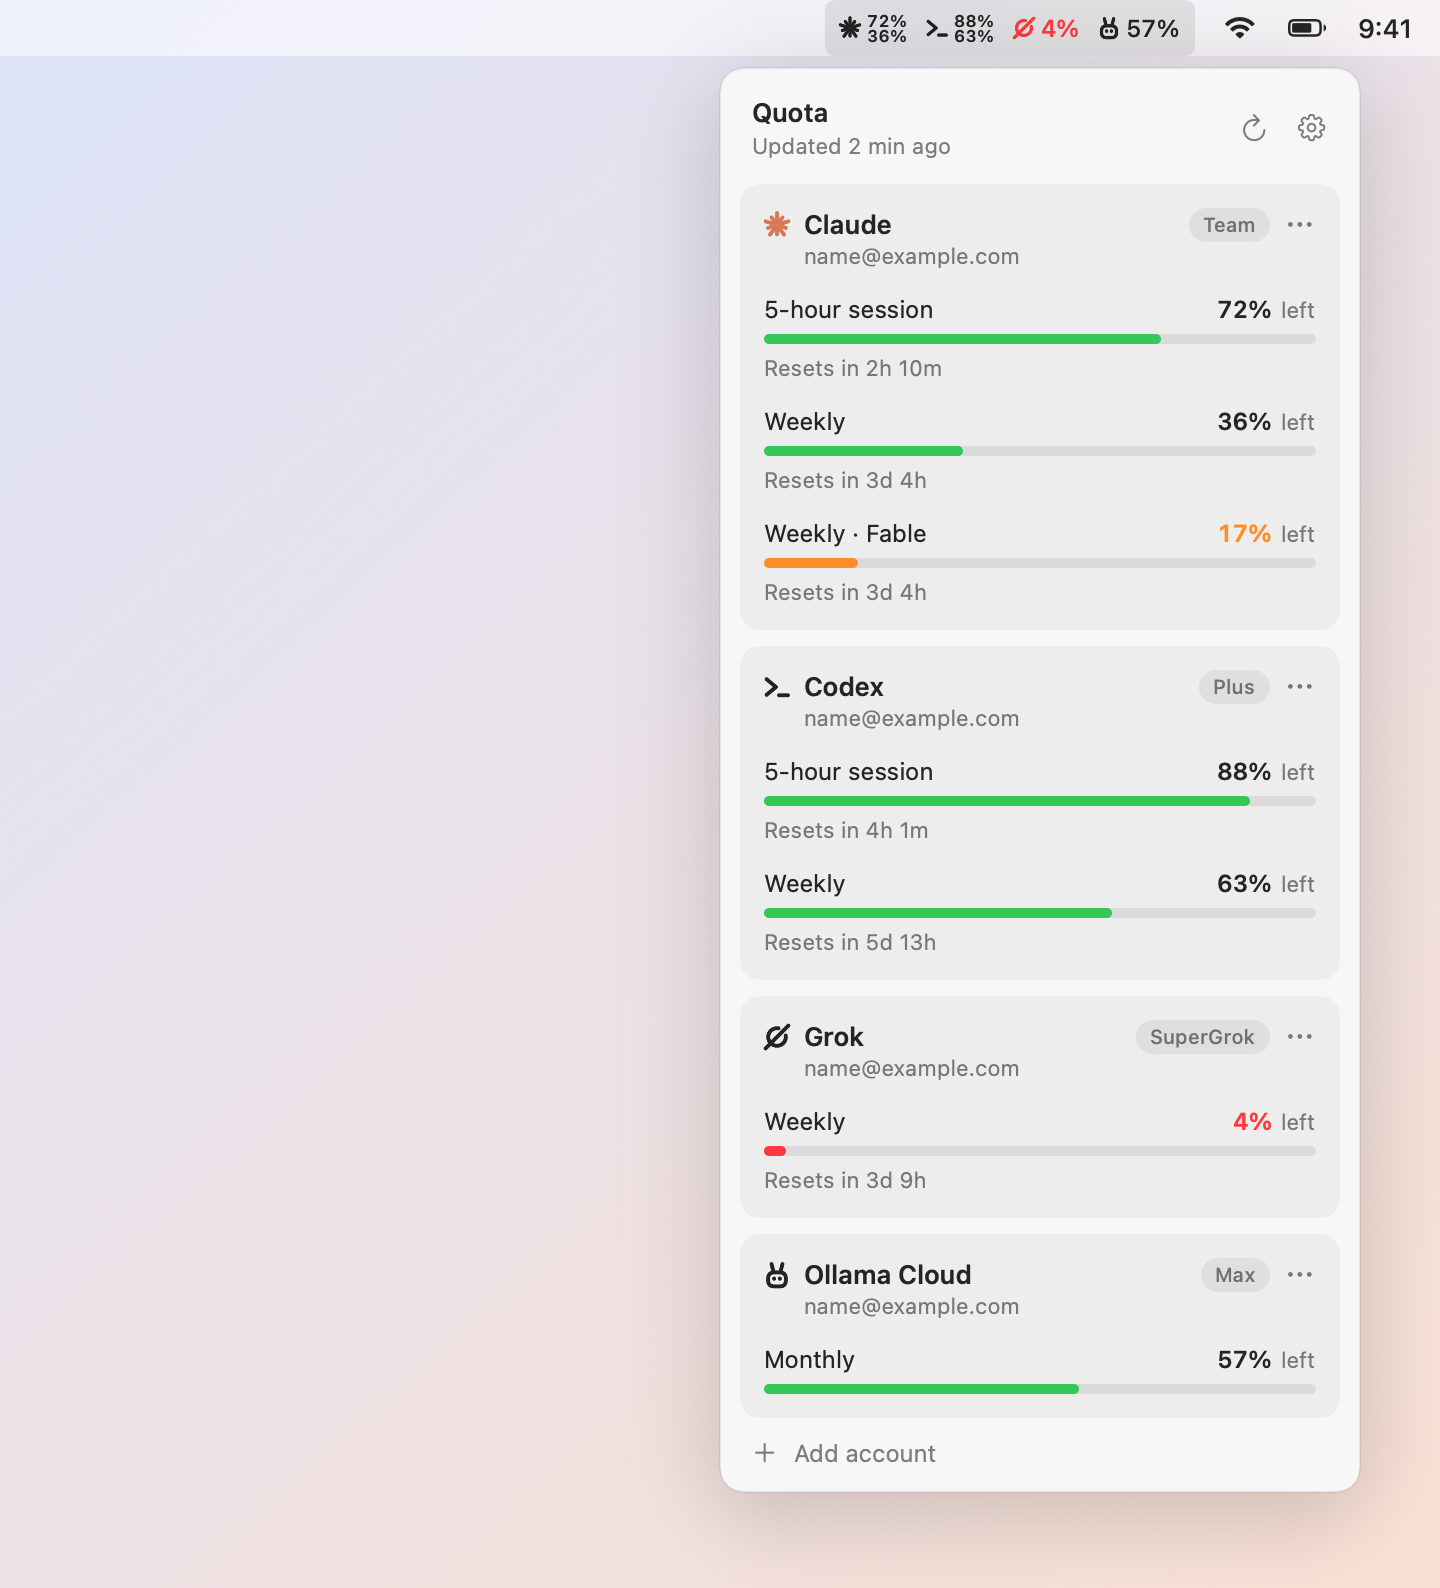
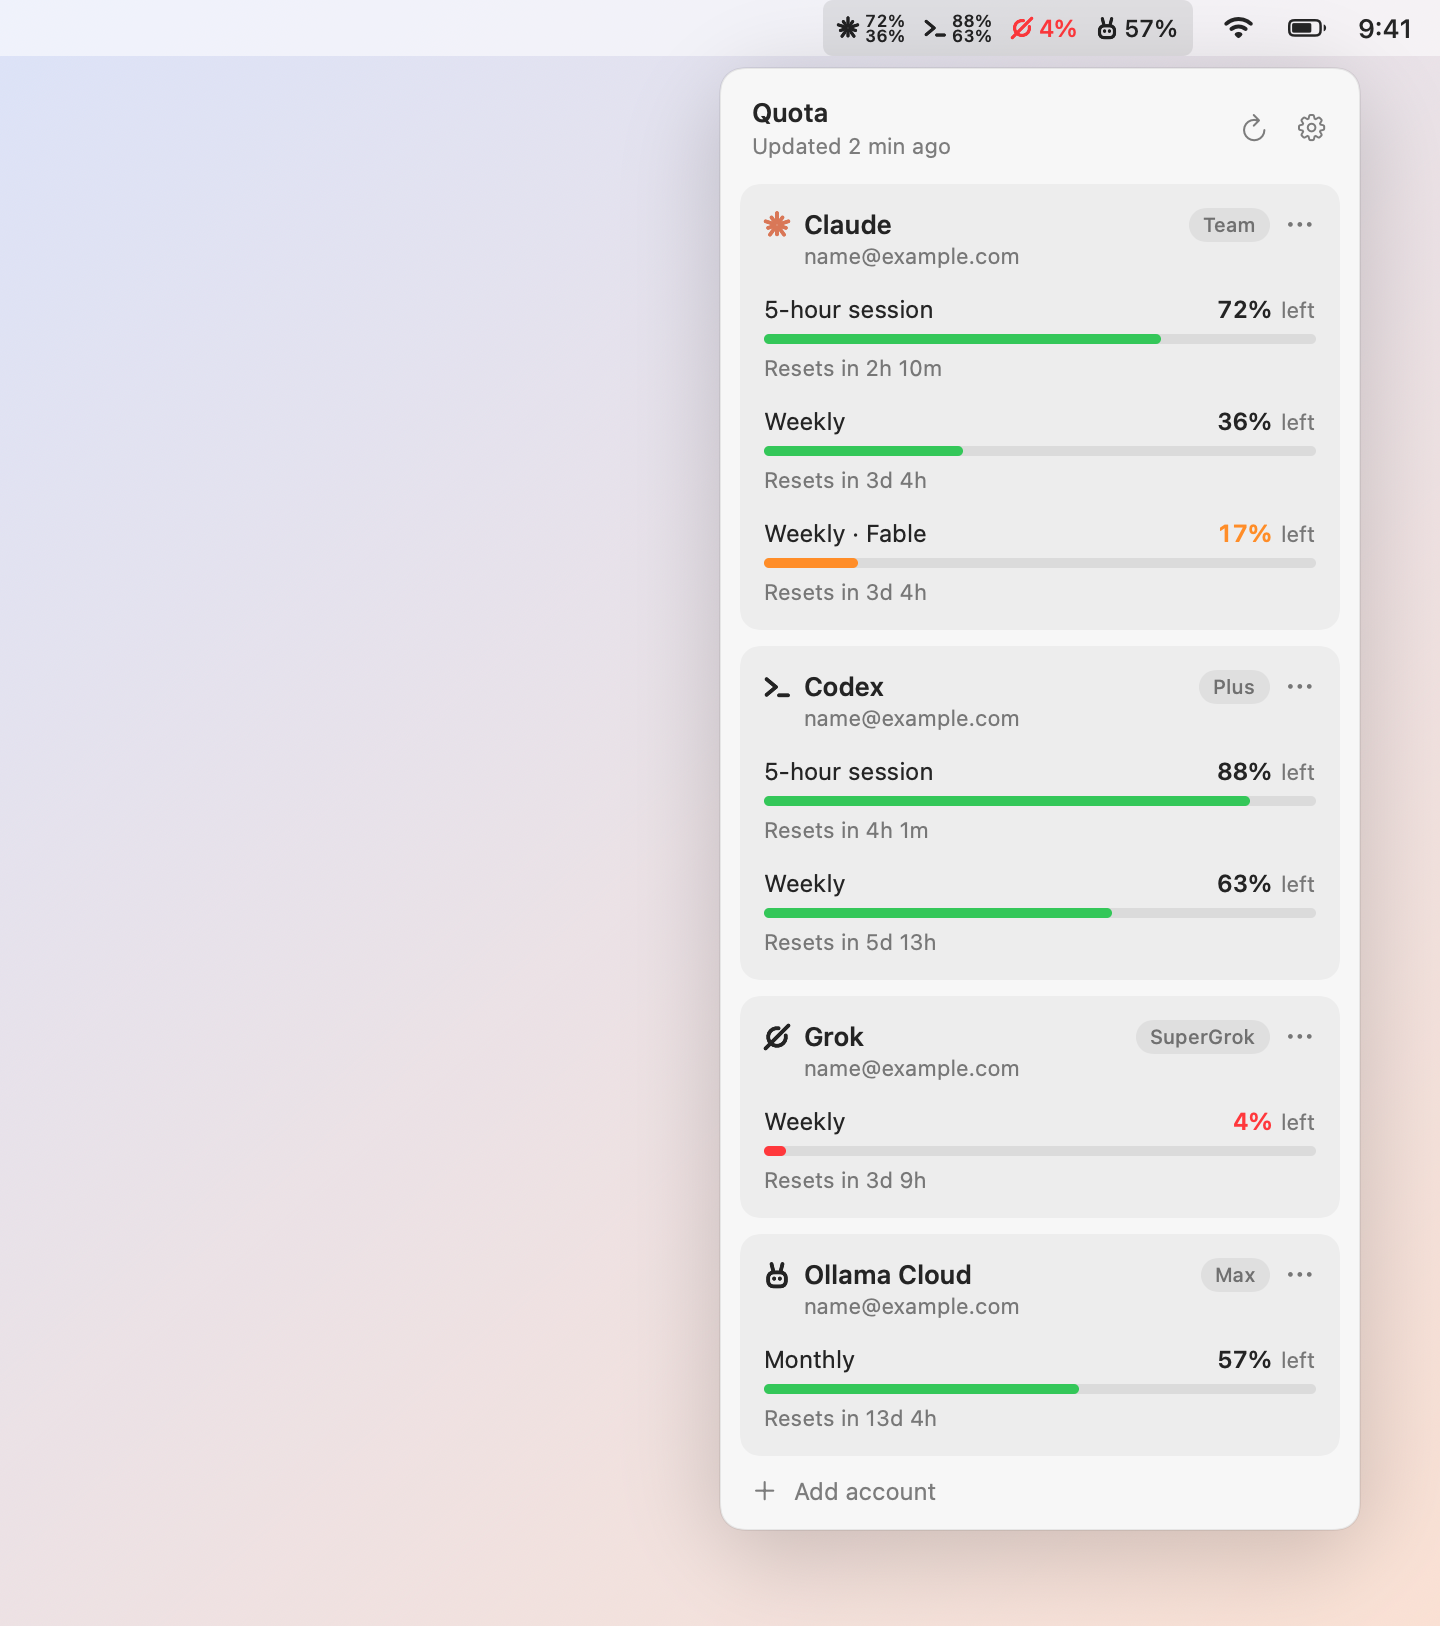
Read Ollama Cloud limits from /api/balance
/api/usage only returns spend history, so linked Ollama Cloud accounts
failed with an unrecognized response. Read the documented /api/balance
instead: the included monthly allowance (balance_usd of allowance_usd,
resetting at period.until) or, on legacy plans, the session and weekly
windows with remaining_percent and resets_at. Ollama windows now show a
reset countdown. Add a live test for the signed-in Ollama device.

diff --git a/Tests/QuotaCoreTests/ParserTests.swift b/Tests/QuotaCoreTests/ParserTests.swift
@@ -400,22 +400,41 @@ private func hex(_ string: String) -> Data {
         #expect(derived.split(whereSeparator: \.isWhitespace).prefix(2).joined(separator: " ") == key.authorizedKey)
     }
 
-    @Test func mapsTheMonthlyPool() throws {
+    @Test func mapsTheIncludedMonthlyAllowance() throws {
         let windows = try OllamaParser.usage(from: json("""
         {
-          "activity": { "cost": "0.00000", "period": { "type": "last_4_weeks" }, "models": [] },
-          "limits": { "monthly": { "usage": 0.445, "models": [ { "name": "kimi-k3", "request_count": 1683 } ] } }
+          "included": {
+            "balance_usd": 72.5,
+            "allowance_usd": 100,
+            "period": { "from": "2026-09-15T09:30:00Z", "until": "2026-10-15T09:30:00Z" }
+          },
+          "purchased": { "balance_usd": 25 }
         }
         """))
-        #expect(windows == [UsageWindow(kind: .monthly, usedPercent: 44.5, resetsAt: nil)])
-        #expect(windows[0].remainingPercent(at: Date()) == 55)
+        #expect(windows == [UsageWindow(kind: .monthly, usedPercent: 27.5, resetsAt: Timestamp.iso("2026-10-15T09:30:00Z"))])
+        #expect(windows[0].remainingPercent(at: Timestamp.iso("2026-10-01T00:00:00Z")!) == 72)
     }
 
-    @Test func mapsLegacyWindowsAndIgnoresInvalidFractions() throws {
-        let windows = try OllamaParser.usage(from: json(#"{ "Limits": { "Session": { "Usage": 0.067 }, "weekly": { "usage": 1.7 } } }"#))
-        #expect(windows.map(\.kind) == [.session])
-        #expect(try OllamaParser.usage(from: json(#"{ "limits": {} }"#)).isEmpty)
-        #expect(throws: ProviderIssue.invalidResponse) { try OllamaParser.usage(from: json(#"{ "error": "invalid credentials" }"#)) }
+    @Test func mapsLegacySessionAndWeeklyWindows() throws {
+        let windows = try OllamaParser.usage(from: json("""
+        {
+          "included": {
+            "session": { "remaining_percent": 75, "resets_at": "2026-10-01T07:00:00Z" },
+            "weekly": { "remaining_percent": 40, "resets_at": "2026-10-05T00:00:00Z" }
+          },
+          "purchased": { "balance_usd": 25 }
+        }
+        """))
+        #expect(windows == [
+            UsageWindow(kind: .session, usedPercent: 25, resetsAt: Timestamp.iso("2026-10-01T07:00:00Z")),
+            UsageWindow(kind: .weekly, usedPercent: 60, resetsAt: Timestamp.iso("2026-10-05T00:00:00Z")),
+        ])
+    }
+
+    @Test func ignoresInvalidBalances() throws {
+        #expect(try OllamaParser.usage(from: json(#"{ "Included": { "Session": { "Remaining_Percent": 140 }, "allowance_usd": 0, "balance_usd": 5 } }"#)).isEmpty)
+        #expect(try OllamaParser.usage(from: json(#"{ "included": {}, "purchased": { "balance_usd": 25 } }"#)).isEmpty)
+        #expect(throws: ProviderIssue.invalidResponse) { try OllamaParser.usage(from: json(#"{ "error": "unauthorized" }"#)) }
     }
 
     @Test func treatsAnEmptyUserAsNotLinked() {
@@ -443,5 +462,18 @@ struct SharedClaudeLoginLiveTests {
         let current = try #require(await SharedClaudeLogin.read())
         let renewed = try #require(await SharedClaudeLogin.renew(replacing: "stale-\(UUID().uuidString)"))
         #expect(renewed.accessToken == current.accessToken || !renewed.isExpiring(at: Date()))
+    }
+}
+
+// Live check against ollama.com with the device key `ollama signin` linked; run with QUOTA_LIVE_TESTS=1 scripts/test.sh.
+@Suite(.enabled(if: ProcessInfo.processInfo.environment["QUOTA_LIVE_TESTS"] != nil))
+struct OllamaCloudLiveTests {
+    @Test func readsUsageForTheSignedInDevice() async throws {
+        let identity = try #require(await AccountLinker.detectCLILogin(.ollama), "Ollama is not signed in on this Mac")
+        let account = Account(provider: .ollama, source: .cli, email: identity.email, plan: identity.plan)
+        let snapshot = try await UsageFetchers.fetch(account)
+        #expect(!snapshot.windows.isEmpty)
+        let windows = snapshot.windows.map { "\($0.label) \(Int($0.usedPercent.rounded()))% used" }.joined(separator: ", ")
+        print("Ollama Cloud: \(snapshot.account ?? "?") (\(snapshot.plan ?? "no plan")): \(windows)")
     }
 }

diff --git a/Sources/QuotaCore/Ollama.swift b/Sources/QuotaCore/Ollama.swift
@@ -41,17 +41,25 @@ public struct OllamaKey: Equatable, Sendable {
 }
 
 public enum OllamaParser {
-    /// `limits.<window>.usage` is the used fraction (0–1) of the plan. Ollama sends no reset times.
-    /// Plans since August 2026 report a monthly credit pool; legacy Pro/Max plans report a 5-hour
-    /// session and a weekly window instead.
+    /// `GET /api/balance` (ollama/ollama docs/api/balance.mdx). Current plans report the included monthly
+    /// allowance in USD (`balance_usd` left of `allowance_usd`, resetting at `period.until`); legacy plans
+    /// report `session` and `weekly` windows with `remaining_percent` (0–100) and `resets_at`.
     public static func usage(from data: Data) throws -> [UsageWindow] {
         let root = fields(try JSON.object(data))
-        guard let limits = JSON.dict(root["limits"]).map(fields) else { throw ProviderIssue.invalidResponse }
-        let kinds: [(key: String, kind: UsageWindow.Kind)] = [("session", .session), ("weekly", .weekly), ("monthly", .monthly)]
-        return kinds.compactMap { slot in
-            guard let usage = JSON.number(JSON.dict(limits[slot.key]).map(fields)?["usage"]), (0...1).contains(usage) else { return nil }
-            return UsageWindow(kind: slot.kind, usedPercent: usage * 100, resetsAt: nil)
+        guard let included = JSON.dict(root["included"]).map(fields) else { throw ProviderIssue.invalidResponse }
+        var windows: [UsageWindow] = []
+        for (key, kind) in [("session", UsageWindow.Kind.session), ("weekly", .weekly)] {
+            guard let window = JSON.dict(included[key]).map(fields),
+                  let remaining = JSON.number(window["remaining_percent"]), (0...100).contains(remaining)
+            else { continue }
+            windows.append(UsageWindow(kind: kind, usedPercent: 100 - remaining, resetsAt: Timestamp.date(window["resets_at"])))
         }
+        if let allowance = JSON.number(included["allowance_usd"]), allowance > 0,
+           let balance = JSON.number(included["balance_usd"]) {
+            let period = JSON.dict(included["period"]).map(fields)
+            windows.append(UsageWindow(kind: .monthly, usedPercent: (allowance - balance) * 100 / allowance, resetsAt: Timestamp.date(period?["until"])))
+        }
+        return windows
     }
 
     /// nil for a key that is not linked: ollama.com then answers with an empty user.
@@ -142,7 +150,7 @@ struct OllamaFetcher {
         guard let key = OllamaCloud.readKey(at: OllamaCloud.keyFile(for: account)) else { throw signedOut }
         let data: Data
         do {
-            data = try await OllamaCloud.signedRequest(key, method: "GET", path: "/api/usage")
+            data = try await OllamaCloud.signedRequest(key, method: "GET", path: "/api/balance")
         } catch ProviderIssue.http(let status) where status == 401 || status == 403 {
             throw signedOut
         }

diff --git a/Sources/QuotaCore/Support.swift b/Sources/QuotaCore/Support.swift
@@ -48,7 +48,7 @@ enum HTTP {
         let status = http?.statusCode ?? 0
         let debug = ProcessInfo.processInfo.environment["QUOTA_DEBUG"]
         if let debug, debug == "verbose" || !(200..<300).contains(status) {
-            let body = String(decoding: data.prefix(debug == "verbose" ? 4_000 : 300), as: UTF8.self)
+            let body = String(decoding: data.prefix(debug == "verbose" ? 262_144 : 300), as: UTF8.self)
             FileHandle.standardError.write(Data("[\(request.url?.host() ?? "")] HTTP \(status) body=\(body)\n".utf8))
         }
         switch status {

diff --git a/Sources/Quota/PreviewRenderer.swift b/Sources/Quota/PreviewRenderer.swift
@@ -98,7 +98,7 @@ enum PreviewRenderer {
                 UsageWindow(kind: .weekly, usedPercent: 96, resetsAt: now.addingTimeInterval(3 * 86_400 + 9 * 3_600)),
             ])),
             ollama.id: UsageStore.Entry(snapshot: ProviderSnapshot(provider: .ollama, plan: "Max", account: ollama.email, windows: [
-                UsageWindow(kind: .monthly, usedPercent: 43, resetsAt: nil),
+                UsageWindow(kind: .monthly, usedPercent: 43, resetsAt: now.addingTimeInterval(13 * 86_400 + 4 * 3_600)),
             ])),
         ]
     }

diff --git a/README.md b/README.md
@@ -27,7 +27,7 @@ Inspired by the usage readout in [Orca](https://github.com/stablyai/orca), packa
 | Claude (Claude Code login) | Pro, Max, Team | 5-hour session, weekly, weekly per model |
 | Codex (ChatGPT login) | Free, Plus, Pro, Business | as reported by Codex (5-hour, weekly or 30-day) |
 | Grok (Grok CLI login) | SuperGrok and Grok plans with weekly or monthly credits | weekly credits or monthly budget |
-| Ollama Cloud (ollama.com account) | Free, Pro, Max, Team | monthly usage pool (legacy Pro/Max: 5-hour session and weekly), no reset time |
+| Ollama Cloud (ollama.com account) | Free, Pro, Max, Team | included monthly credit (legacy plans: 5-hour session and weekly) |
 
 ## Requirements
 
@@ -62,13 +62,13 @@ To stop monitoring an account, open its `…` menu and choose **Unlink account**
 | Claude | `GET api.anthropic.com/api/oauth/usage` with the Claude Code OAuth token |
 | Codex | JSON-RPC `account/rateLimits/read` on `codex app-server`, so Codex refreshes its own token |
 | Grok | `GET cli-chat-proxy.grok.com/v1/billing` with the Grok CLI token |
-| Ollama Cloud | `GET ollama.com/api/usage` and `POST ollama.com/api/me`, signed with an Ed25519 device key like the Ollama CLI does |
+| Ollama Cloud | [`GET ollama.com/api/balance`](https://github.com/ollama/ollama/blob/main/docs/api/balance.mdx) and `POST ollama.com/api/me`, signed with an Ed25519 device key like the Ollama CLI does |
 
 Quota refreshes every 5 minutes, after wake, when a window resets and when you open the popover. It only talks to the services above.
 
 Tokens are renewed by the official CLIs, never by Quota. If the Claude Code token has expired because you have not used `claude` in a while, Quota starts it in the background for a few seconds so it can renew its own session, then retries.
 
-These endpoints are the ones the official CLIs and ollama.com/settings use. They are not public APIs and may change without notice. Ollama reports only how much of each window is used, never when it resets, so Ollama Cloud windows show no countdown.
+Ollama documents `/api/balance`; the other endpoints are the ones the official CLIs use, are not public APIs and may change without notice.
 
 ### Where data lives
 

diff --git a/AGENTS.md b/AGENTS.md
@@ -40,7 +40,7 @@ Mirrors Orca (github.com/stablyai/orca, `src/main/rate-limits`, `src/main/*-acco
 - Claude: `GET https://api.anthropic.com/api/oauth/usage` with `anthropic-beta: oauth-2025-04-20`.
 - Codex: JSON-RPC `account/read` + `account/rateLimits/read` on `codex app-server`; fallback `GET https://chatgpt.com/backend-api/wham/usage` for the shared login when the CLI is missing.
 - Grok: `GET https://cli-chat-proxy.grok.com/v1/billing?format=credits` with `X-XAI-Token-Auth: xai-grok-cli`, falling back to `/v1/billing` for monthly budgets. The API omits zero-valued fields: a missing `creditUsagePercent` means 0% only when the weekly `currentPeriod` matches `billingPeriodStart/End` and no field shows explicit zeros or spend (same rule as Orca).
-- Ollama Cloud: `GET https://ollama.com/api/usage` (`limits.monthly.usage`, or legacy `limits.session`/`limits.weekly`, as fractions 0–1; no reset times) and `POST https://ollama.com/api/me` for email and plan. Requests are signed as in ollama/ollama `api/client.go`: `Authorization: <base64 public key blob>:<base64 Ed25519 signature of "<METHOD>,<path>?ts=<unix>">` with the same `ts` in the query (CryptoKit `Curve25519.Signing`). ollama.com answers with Go field names (`Email`, `Plan`), so keys are matched case-insensitively.
+- Ollama Cloud: `GET https://ollama.com/api/balance` (documented in ollama/ollama `docs/api/balance.mdx`: `included.balance_usd` left of `included.allowance_usd`, resetting at `included.period.until`; legacy plans return `included.session`/`included.weekly` with `remaining_percent` and `resets_at`; 10 requests/minute per user). `GET /api/usage` is only the spend history, not the limits and `POST https://ollama.com/api/me` for email and plan. Requests are signed as in ollama/ollama `api/client.go`: `Authorization: <base64 public key blob>:<base64 Ed25519 signature of "<METHOD>,<path>?ts=<unix>">` with the same `ts` in the query (CryptoKit `Curve25519.Signing`). ollama.com answers with Go field names (`Email`, `Plan`), so keys are matched case-insensitively.
 
 ## Rules
 
